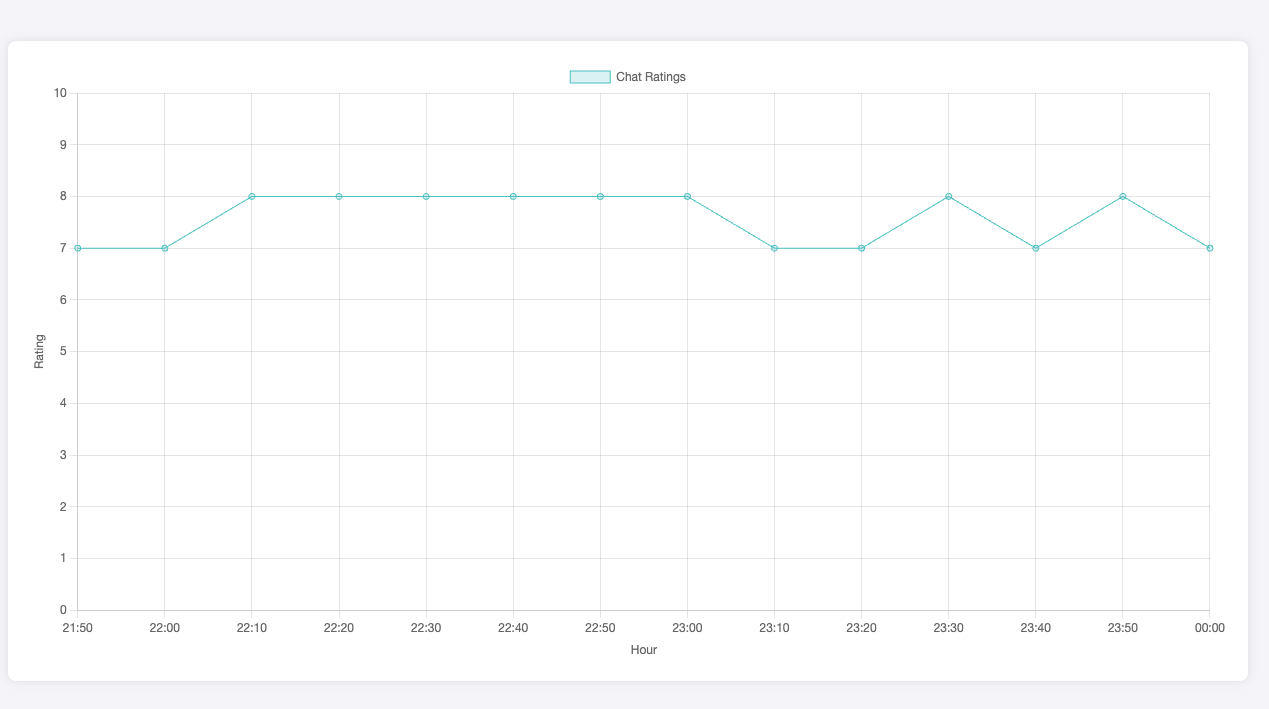
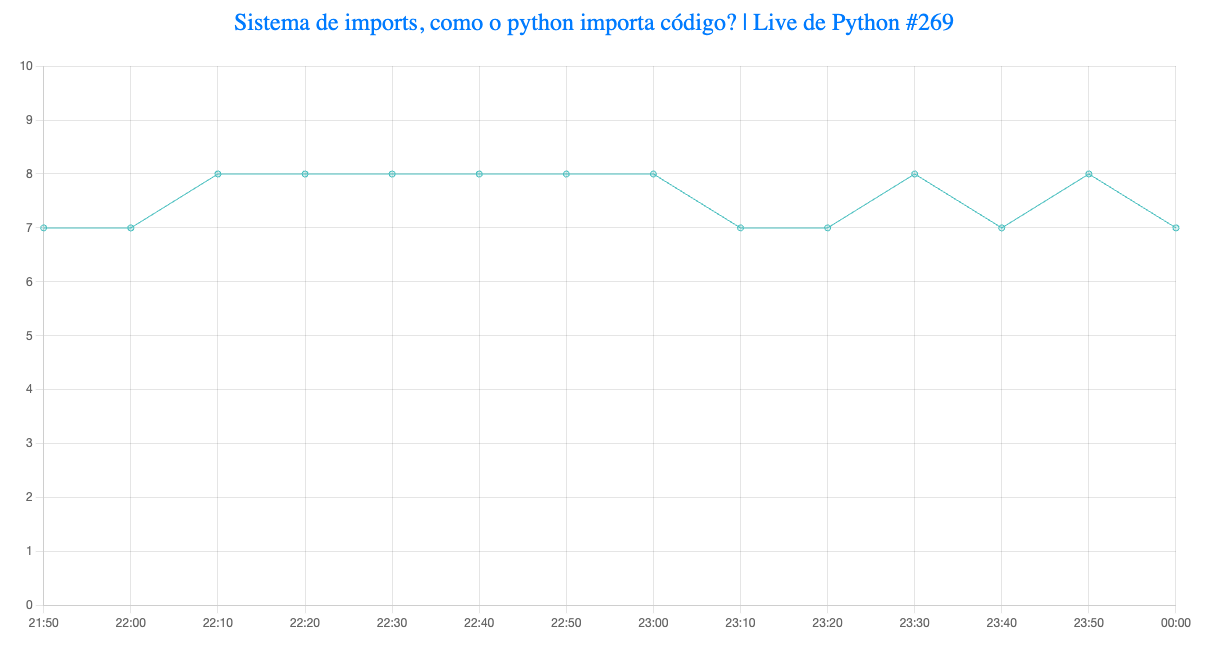
updating analysis images on README

diff --git a/projects/youtube-live-insights/functions/chart/get_chart/chart.html b/projects/youtube-live-insights/functions/chart/get_chart/chart.html
@@ -1,0 +1,249 @@
+<!DOCTYPE html>
+<html lang="en">
+<head>
+    <meta charset="UTF-8">
+    <meta name="viewport" content="width=device-width, initial-scale=1.0">
+    <title>Carregando...</title>
+    <script src="https://cdn.jsdelivr.net/npm/chart.js"></script>
+    <style>
+        body {
+            display: flex;
+            flex-direction: column;
+            justify-content: center;
+            align-items: center;
+            height: 100vh;
+            margin: 0;
+            background-color: #f4f4f9;
+            overflow: hidden;
+        }
+        #chart-container {
+            width: 80%;
+            max-width: 1200px;
+            background: white;
+            padding: 20px;
+            border-radius: 8px;
+            box-shadow: 0 0 10px rgba(0, 0, 0, 0.1);
+            text-align: center;
+            flex-shrink: 0;
+        }
+        canvas {
+            width: 100% !important;
+            height: auto !important;
+        }
+        .video-title {
+            font-size: 24px;
+            margin-bottom: 20px;
+        }
+        .video-title a {
+            text-decoration: none;
+            color: #007bff;
+        }
+        .chartjs-tooltip {
+            display: none;
+            max-width: 300px;
+            white-space: pre-wrap;
+            word-wrap: break-word;
+            overflow-wrap: break-word;
+            background: rgba(0, 0, 0, 0.7);
+            color: white;
+            border-radius: 3px;
+            pointer-events: none;
+            padding: 10px;
+            font-size: 12px;
+            text-align: left; 
+        }
+        #interval-container {
+            margin-top: 10px;
+            font-size: 18px;
+            font-weight: bold;
+        }
+        #messages-container {
+            margin-top: 20px;
+            width: 80%;
+            max-width: 1200px;
+            background: white;
+            padding: 20px;
+            border-radius: 8px;
+            box-shadow: 0 0 10px rgba(0, 0, 0, 0.1);
+            text-align: left;
+            flex-grow: 1;
+            overflow-y: auto;
+        }
+        .message {
+            padding: 5px 0;
+            border-bottom: 1px solid #ddd;
+        }
+    </style>
+</head>
+<body>
+    <div id="chart-container">
+        <div class="video-title" id="video-title">
+            <a href="" target="_blank"></a>
+        </div>
+        <canvas id="ratingChart"></canvas>
+        <div id="chartjs-tooltip" class="chartjs-tooltip"></div>
+    </div>
+    <div id="interval-container"></div>
+    <div id="messages-container"></div>
+    <script>
+        const data = '{{ data }}'
+
+        const labels = data.data.map(item => item.hour);
+        const ratings = data.data.map(item => parseInt(item.rating));
+        const chatSummaries = data.data.map(item => item.chat_summary);
+        const reasons = data.data.map(item => item.reason);
+        const messages = data.data.map(item => item.messages);
+
+        const chartData = {
+            labels: labels,
+            datasets: [{
+                label: 'Chat Ratings',
+                data: ratings,
+                borderColor: 'rgba(75, 192, 192, 1)',
+                backgroundColor: 'rgba(75, 192, 192, 0.2)',
+                borderWidth: 1
+            }]
+        };
+
+        const config = {
+            type: 'line',
+            data: chartData,
+            options: {
+                scales: {
+                    x: {
+                        title: {
+                            display: true,
+                        }
+                    },
+                    y: {
+                        title: {
+                            display: true,
+                        },
+                        beginAtZero: true,
+                        max: 10
+                    }
+                },
+                plugins: {
+                    legend: {
+                        display: false 
+                    },
+                    tooltip: {
+                        enabled: false,
+                        external: function(context) {
+                            const tooltipEl = document.getElementById('chartjs-tooltip');
+                            const tooltipModel = context.tooltip;
+
+                            if (tooltipModel.opacity === 0) {
+                                tooltipEl.style.opacity = 0;
+                                tooltipEl.style.display = 'none';
+                                return;
+                            }
+
+                            tooltipEl.style.display = 'block';
+
+                            tooltipEl.classList.remove('above', 'below', 'no-transform');
+                            tooltipEl.classList.add('no-transform');
+
+                            if (tooltipModel.body) {
+                                const index = tooltipModel.dataPoints[0].dataIndex;
+                                const rating = ratings[index];
+                                const reason = reasons[index];
+                                const chatSummary = chatSummaries[index];
+
+                                let innerHtml = `<div><strong>Nota: ${rating}</strong></div>`;
+                                innerHtml += `<br>`;
+                                innerHtml += `<div><strong>Motivo: ${reason}</strong></div>`;
+                                innerHtml += `<br>`;
+                                innerHtml += `<div><strong>Resumo do chat: ${chatSummary}</strong></div>`;
+
+                                tooltipEl.innerHTML = innerHtml;
+                            }
+
+                            const position = context.chart.canvas.getBoundingClientRect();
+                            tooltipEl.style.opacity = 1;
+                            tooltipEl.style.position = 'absolute';
+                            tooltipEl.style.left = position.left + window.pageXOffset + tooltipModel.caretX + 'px';
+                            tooltipEl.style.top = position.top + window.pageYOffset + tooltipModel.caretY + 'px';
+                            tooltipEl.style.fontFamily = tooltipModel.options.bodyFont.family;
+                            tooltipEl.style.fontSize = tooltipModel.options.bodyFont.size + 'px';
+                            tooltipEl.style.fontStyle = tooltipModel.options.bodyFont.style;
+                            tooltipEl.style.padding = tooltipModel.options.padding + 'px ' + tooltipModel.options.padding + 'px';
+                        }
+                    }
+                },
+                onClick: (e) => {
+                    const points = ratingChart.getElementsAtEventForMode(e, 'nearest', { intersect: true }, true);
+                    if (points.length) {
+                        const index = points[0].index;
+                        const msgContainer = document.getElementById('messages-container');
+                        const intervalContainer = document.getElementById('interval-container');
+
+                        msgContainer.innerHTML = '';
+
+                        if (index > 0) {
+                            const previousHour = labels[index - 1];
+                            const currentHour = labels[index];
+                            intervalContainer.textContent = `${previousHour} - ${currentHour}`;
+                        } else {
+                            intervalContainer.textContent = `Início - ${labels[index]}`;
+                        }
+
+                        messages[index].forEach(msg => {
+                            const msgDiv = document.createElement('div');
+                            msgDiv.className = 'message';
+                            msgDiv.textContent = msg;
+                            msgContainer.appendChild(msgDiv);
+                        });
+                    }
+                }
+            }
+        };
+
+        const ratingChart = new Chart(
+            document.getElementById('ratingChart'),
+            config
+        );
+
+        function loadInitialMessages() {
+            const index = 0; 
+            const msgContainer = document.getElementById('messages-container');
+            const intervalContainer = document.getElementById('interval-container');
+
+            msgContainer.innerHTML = '';
+
+            if (index > 0) {
+                const previousHour = labels[index - 1];
+                const currentHour = labels[index];
+                intervalContainer.textContent = `${previousHour} - ${currentHour}`;
+            } else {
+                intervalContainer.textContent = `Início - ${labels[index]}`;
+            }
+
+            messages[index].forEach(msg => {
+                const msgDiv = document.createElement('div');
+                msgDiv.className = 'message';
+                msgDiv.textContent = msg;
+                msgContainer.appendChild(msgDiv);
+            });
+        }
+
+        window.onload = () => {
+            document.title = data.video.title;
+
+            const videoId = data.video.url.split('v=')[1];
+            const thumbnailUrl = `https://img.youtube.com/vi/${videoId}/hqdefault.jpg`;
+
+            const link = document.createElement('link');
+            link.rel = 'icon';
+            link.href = thumbnailUrl;
+            document.head.appendChild(link);
+
+            const videoTitleElement = document.getElementById('video-title').querySelector('a');
+            videoTitleElement.textContent = data.video.title;
+            videoTitleElement.href = data.video.url;
+
+            loadInitialMessages();
+        };
+    </script>
+</body>
+</html>

diff --git a/projects/youtube-live-insights/functions/chart/get_chart/main.py b/projects/youtube-live-insights/functions/chart/get_chart/main.py
@@ -54,94 +54,15 @@ def lambda_handler(event, context):
     data = utils.subtract_hours_from_utc(data, hour=3)
 
     data = {"video": video, "data": data}
-    print(data)
 
-    html_content = f"""
-    <!DOCTYPE html>
-    <html lang="en">
-    <head>
-        <meta charset="UTF-8">
-        <meta name="viewport" content="width=device-width, initial-scale=1.0">
-        <title>Chat Rating Chart</title>
-        <script src="https://cdn.jsdelivr.net/npm/chart.js"></script>
-        <style>
-            body {{
-                display: flex;
-                justify-content: center;
-                align-items: center;
-                height: 100vh;
-                margin: 0;
-                background-color: #f4f4f9;
-            }}
-            #chart-container {{
-                width: 80%;
-                max-width: 1200px;
-                background: white;
-                padding: 20px;
-                border-radius: 8px;
-                box-shadow: 0 0 10px rgba(0, 0, 0, 0.1);
-            }}
-            canvas {{
-                width: 100% !important;
-                height: auto !important;
-            }}
-        </style>
-    </head>
-    <body>
-        <div id="chart-container">
-            <canvas id="ratingChart"></canvas>
-        </div>
-        <script>
-            const data = {json.dumps(data["data"], default=str)};
-
-            const labels = data.map(item => item.hour);
-            const ratings = data.map(item => parseInt(item.rating));
-
-            const chartData = {{
-                labels: labels,
-                datasets: [{{
-                    label: 'Chat Ratings',
-                    data: ratings,
-                    borderColor: 'rgba(75, 192, 192, 1)',
-                    backgroundColor: 'rgba(75, 192, 192, 0.2)',
-                    borderWidth: 1
-                }}]
-            }};
-
-            const config = {{
-                type: 'line',
-                data: chartData,
-                options: {{
-                    scales: {{
-                        x: {{
-                            title: {{
-                                display: true,
-                                text: 'Hour'
-                            }}
-                        }},
-                        y: {{
-                            title: {{
-                                display: true,
-                                text: 'Rating'
-                            }},
-                            beginAtZero: true,
-                            max: 10
-                        }}
-                    }}
-                }}
-            }};
-
-            const ratingChart = new Chart(
-                document.getElementById('ratingChart'),
-                config
-            );
-        </script>
-    </body>
-    </html>
-    """
+    current_dir = os.path.dirname(__file__)
+    with open(os.path.join(current_dir, "chart.html")) as f:
+        html = f.read()
+    
+    html = html.replace("'{{ data }}'", json.dumps(data, default=str))
 
     return {
         "statusCode": 200,
-        "body": html_content,
+        "body": html,
         "headers": {"Content-Type": "text/html", "Access-Control-Allow-Origin": "*"},
     }

diff --git a/lambda_forge/scaffold/infra/services/api_gateway.py b/lambda_forge/scaffold/infra/services/api_gateway.py
@@ -13,7 +13,6 @@ class APIGateway:
             deploy_options={"stage_name": context.stage.lower()},
             endpoint_types=[apigateway.EndpointType.REGIONAL],
             binary_media_types=["multipart/form-data"],
-            endpoint_export_name="BASE-URL",
             default_cors_preflight_options={
                 "allow_origins": ["*"],
                 "allow_methods": apigateway.Cors.ALL_METHODS,
